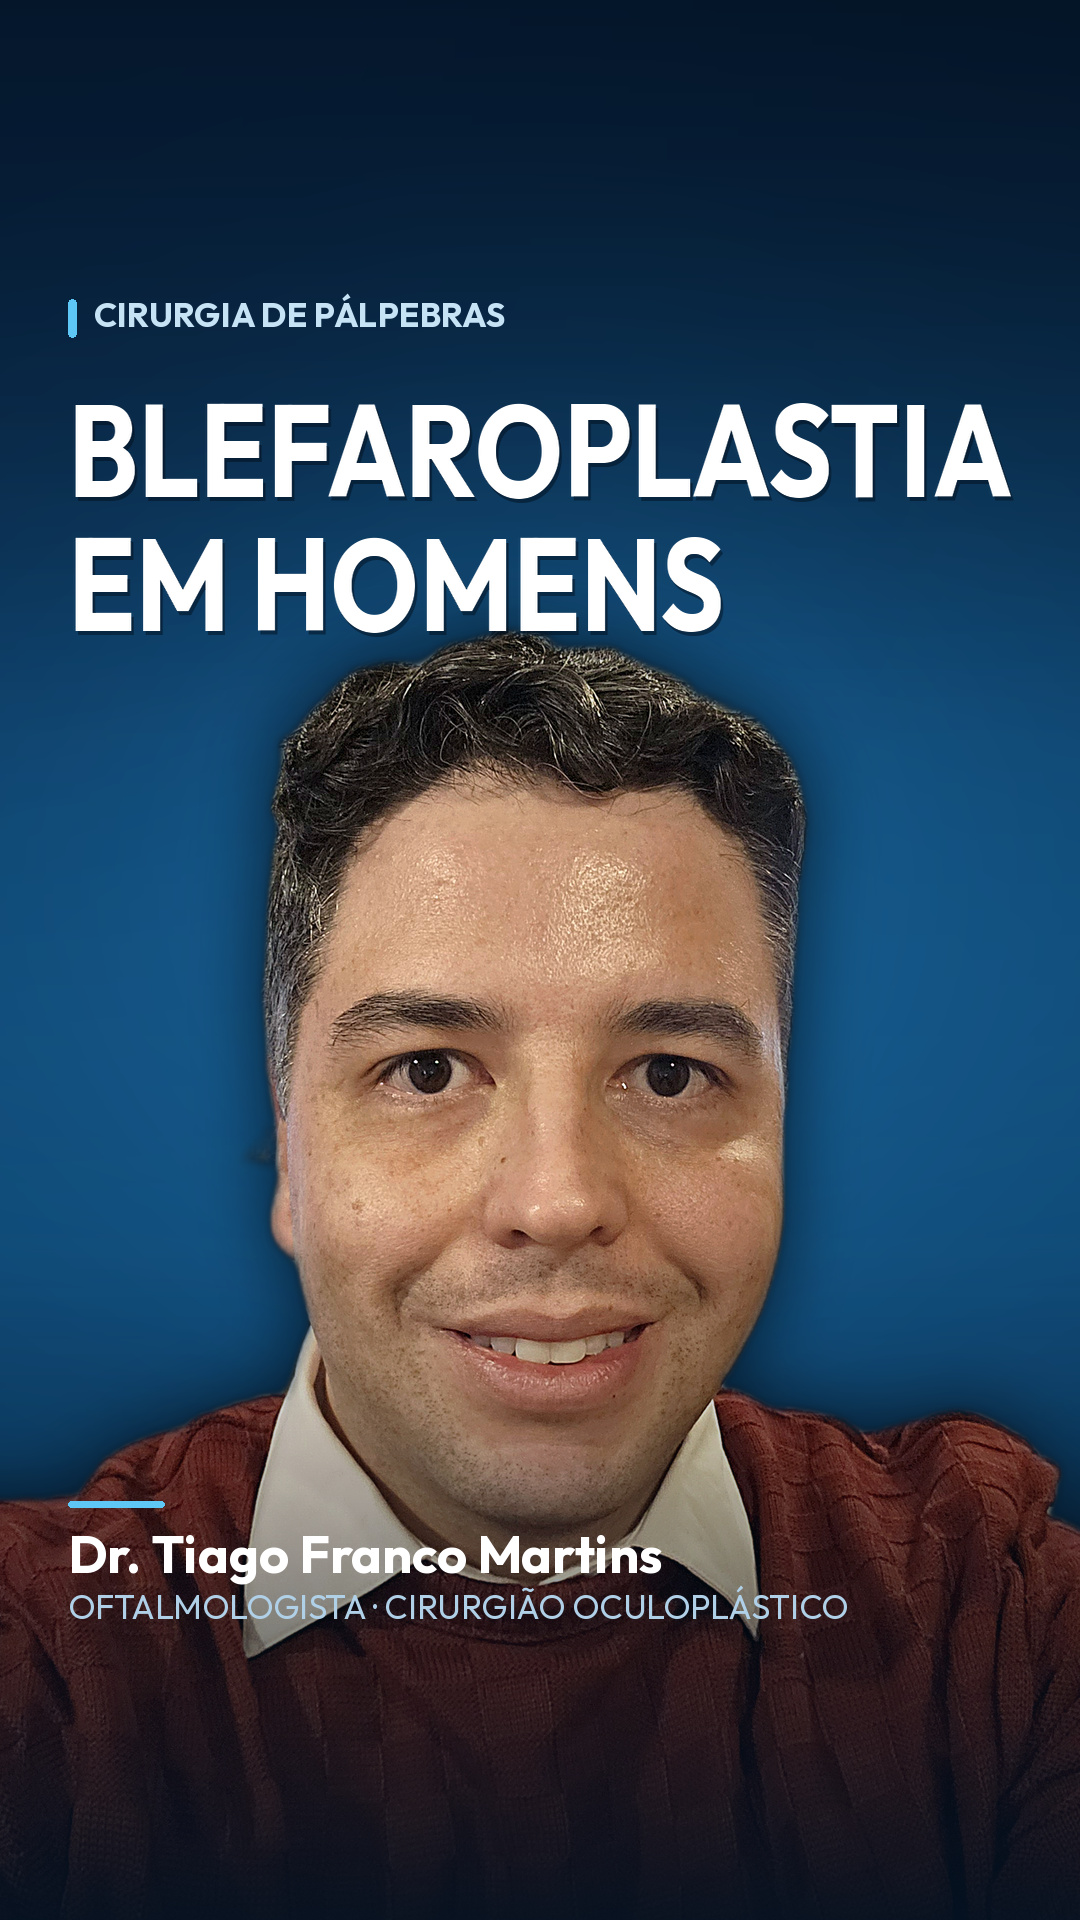
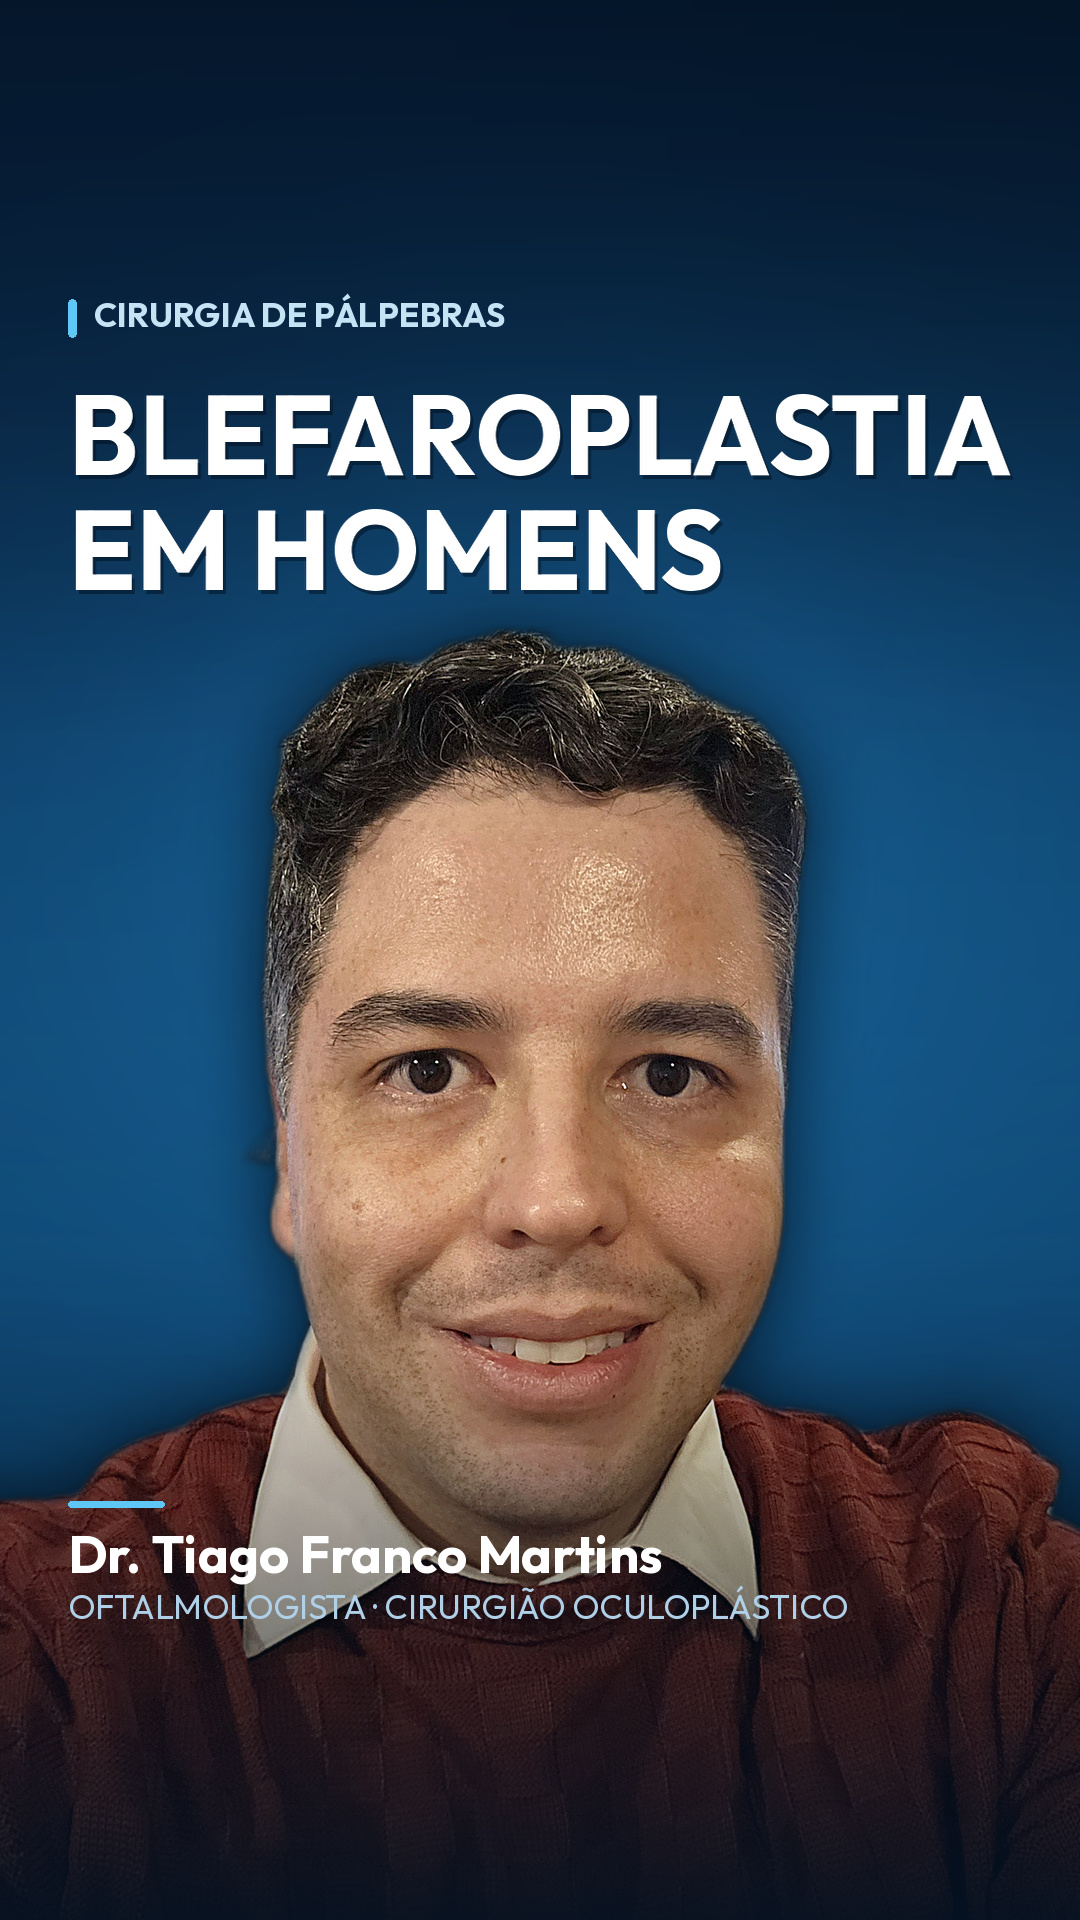
Reduz o título e afasta ele do cabelo
O corpo da fonte era calculado até o título encostar na cabeça. Agora existe
uma folga explícita (FOLGA_CABELO = 50 px) descontada desse cálculo, então o
título nunca chega perto do cabelo, qualquer que seja o texto.

Corpo da fonte: 130 -> 112 px. Base do título: 595 -> 559 px, com o topo da
cabeça em 610.

Claude-Session: https://claude.ai/code/session_0115TnNkJGEpj9DyYC6oW8QN

Changed region(s): [[0.0611, 0.1875, 0.9472, 0.3438]]

diff --git a/capas/gerar_capa.py b/capas/gerar_capa.py
@@ -28,6 +28,7 @@ SAFE_TOP, SAFE_BOT = (H - 1350) // 2, (H + 1350) // 2
 
 MARGEM = 68
 CONDENSAR_MIN = 0.82   # condensacao horizontal maxima do titulo
+FOLGA_CABELO = 50      # respiro entre a base do titulo e o topo da cabeca
 AZUL_TOPO, AZUL_BASE = (5, 24, 46), (12, 62, 102)
 DESTAQUE = (94, 199, 245)
 
@@ -162,10 +163,12 @@ def escrever(img, titulo, chapeu, nome, cargo):
 
     # Titulo. Palavras longas ("BLEFAROPLASTIA") condensam de leve em vez de
     # encolher: mantem o impacto sem estourar a margem.
-    y += 74
+    y += 70
     linhas = titulo.split("\n")
-    altura_max = TOPO_CABECA + 26 - y
-    tamanho = min(190, int(altura_max / (1.03 * len(linhas))))
+    # Corpo da fonte tirado do espaco livre ate a cabeca, ja descontando a folga.
+    # 1.03 = entrelinha; 0.72 = altura aproximada das maiusculas da Outfit.
+    espaco = TOPO_CABECA - FOLGA_CABELO - y
+    tamanho = min(190, int(espaco / ((len(linhas) - 1) * 1.03 + 0.72)))
     while tamanho > 44:
         f = fonte(BOLD, tamanho)
         larguras = [f.getbbox(ln)[2] for ln in linhas]
@@ -173,6 +176,7 @@ def escrever(img, titulo, chapeu, nome, cargo):
         if fator >= CONDENSAR_MIN:
             break
         tamanho -= 2
+
 
     entrelinha = round(tamanho * 1.03)
     for i, linha in enumerate(linhas):
